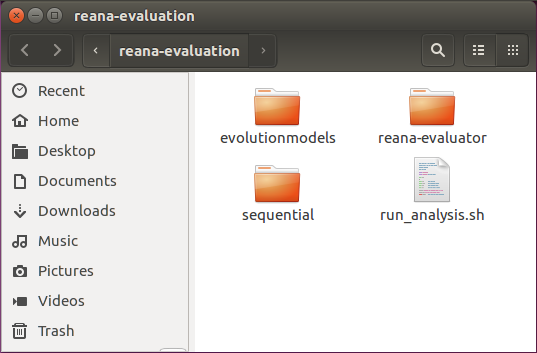
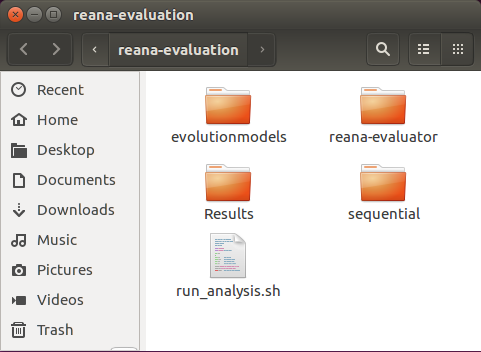
[Replication] Replication page is now finished. It lacks the final review.  Changes to be committed: 	new file:   .DS_Store 	modified:   assets/reanaFolderContent.png 	new file:   assets/startVM.png 	modified:   replication.md

diff --git a/replication.md b/replication.md
@@ -193,12 +193,12 @@ be available in its own folder.
 ## Linux image
 
 Another alternative for the experiment replication is by using the environment
-image we created for the [VirtualBox][virtual-box], a virtual manager provided
-by Oracle&copy;. For using this alternative it is necessary having a host
+image we created for [VirtualBox][virtual-box], a virtual machine manager provided
+by Oracle&copy;. To use this alternative it is necessary having a host
 machine with VirtualBox installed and a copy of the environment image.  In case
 it is necessary installing VirtualBox, its binaries for different platforms can
-be downloaded from [here][virtual-box-download]. The installation procedures are
-available [here][virtual-box-installation]. 
+be downloaded from [here][virtual-box-download]. The installation instructions
+are available [here][virtual-box-installation]. 
 
 Next we present the steps for importing the replication environment into
 VirtualBox and running the experiment script.
@@ -206,41 +206,98 @@ VirtualBox and running the experiment script.
 1. **Downloading and importing the Linux image into VirtualBox&copy;**
 
 The Linux image containing the replication environment is available at the
-repository created for this paper submission. For downloading the image file,
+repository created for this paper submission. To download the image file,
 please refer to the file named `replicationEnvironment.tar.bz` at [GitHub
 repository][submission-github] or simply click [here][submission-image]. 
 
 After downloading the `replicationEnvironment.tar.bz` file it is necessary
 extract its content using the decompression tool of your preference. The
-extraction's result is a file name `reana-replicationEnvironment.ova`. This file
-is now ready to be imported to VirtualBox Manager tool. 
+extraction's result is a file named `reana-replicationEnvironment.ova`. This
+file is now ready to be imported to VirtualBox Manager tool. 
 
-To import the image choose the `Import appliance` option from the `File` menu,
-as shown below.
+To import the image into VirtualBox, choose the `Import appliance` option from
+the `File` menu, as shown below.
 
 ![importAppliance](/assets/importAppliance.png)
 
-The path for the `reana-replicationEnvironment.ova` file must
-be provided at the new window, as shown by the figure below.
+The path for the `reana-replicationEnvironment.ova` file must be provided at the
+new window, as shown by the figure below. After informing the file path, click
+on "Continue" to proceed.
 
 ![appliancePath](/assets/appliancePath.png)
 
-In the next screen, shown by the figure below, VirtualBox will show you the
-characteristics of the virtual machine you are creating. The values for each
-characteristic, in special number of CPUs and memory, must be changed
+In the next screen, represented by the figure below, VirtualBox will show you
+the characteristics of the virtual machine you are creating. The values for each
+characteristic, in special the number of CPUs and memory, must be changed
 considering the hosts machine resources. In our experiments we used 100% of CPUs
 (considering the hyperthreaded cores) and 75% of the memory -- please refer to
-[Table 1](#Table1). Thus, you should consider such resources usage when creating
-your virtual machine so it resemble our experiment environment as much as
-possible.  
+[Table 1](#Table1). Thus, you should consider such values for resources usage
+when creating your virtual machine so it resembles our experiment environment as
+much as possible.  
 
 ![resourcesDefinition](/assets/resourcesDefinition.png)
 
-The next step will be conclude the virtual machine import. When it is finished,
-the virtual machine will be ready to be executed. 
+The next step will be the conclusion of the virtual machine import. When it is
+finished, the virtual machine will be ready to be executed. 
+
 
 {:start="2"}
 2. **Executing the evaluation script**
+
+After importing the environment image into VirtualBox, a new virtual machine
+(named according to the value informed at last step) is available to be used.
+To start the virtual machine, select it from the list of available virtual
+machines and click at "Start" button. The figure below depicts this step.
+
+![startVM](/assets/startVM.png)
+
+In the Virtual Machine's desktop there is a folder named `reana-evaluation`, as
+shown by the figure below. It contains all artifacts needed for replicating our
+experiment, so it comprises all the software product line's models, the analysis
+tools and the scripts for the analysis automation. 
+
+![reanaFolder](/assets/reanaFolder.png)
+
+The file `run_analysis.sh` inside the `reana-evaluation` folder contains the
+script for automating the reliability analysis of the software product lines.
+Thus, it role is to trigger the execution of the ReAna-SPL tool and, when all
+analysis finish, it groups the results of each software product line and perform
+the statistical tests. The results (graphs and report) will be available at the
+folder `Results`. 
+
+![reanaFolderContent](/assets/reanaFolderContent.png)
+
+The default number of analysis iterations for each strategy/software product
+line is `10`. However, such value can be changed by assigning a value for the
+parameter `--times`. For executing the automation script, in a terminal of the
+virtual machine you should type the following commands
+
+{% highlight shell %}
+cd ~/Desktop/reana-evaluation
+./run_analysis.sh
+{% endhighlight %}
+
+In case you want to define the number of analysis iterations, you need change
+the last command, by adding the `--times` parameter, as shown below:
+
+{% highlight shell %}
+./run_analysis.sh --times XX
+{% endhighlight %} 
+where `XX` is the number of iterations.
+
+**Note 5:** although the `--times` parameter can assume an arbitrary positive integer
+value, it must must be greater than `8` in order to allow drawing valid
+conclusions from the statistical analysis.
+
+**Note 6:** due the number of software product lines (and its evolutions), the
+analysis strategies and the time required for each combination analysis/software
+product line, it is recommended choosing a reasonable value for `--times`
+parameter so it answers in a practical time.
+
+
+
+
+
 
 
 [docker]:                   https://docker.com/
@@ -251,4 +308,3 @@ the virtual machine will be ready to be executed.
 [virtual-box-installation]: https://www.virtualbox.org/manual/ch02.html
 [submission-github]:        https://github.com/andrelanna/sosym-submission
 [submission-image]:         https://link.to.a.file
-
